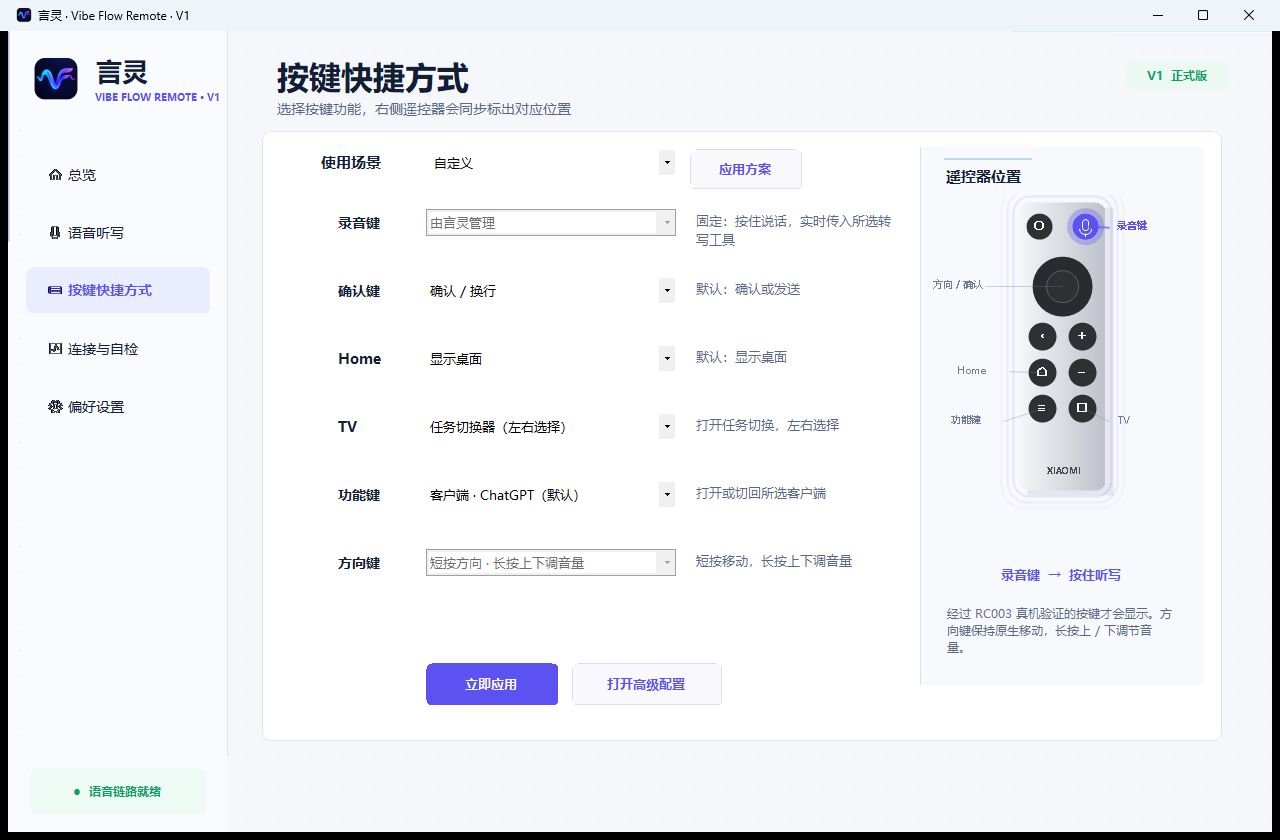
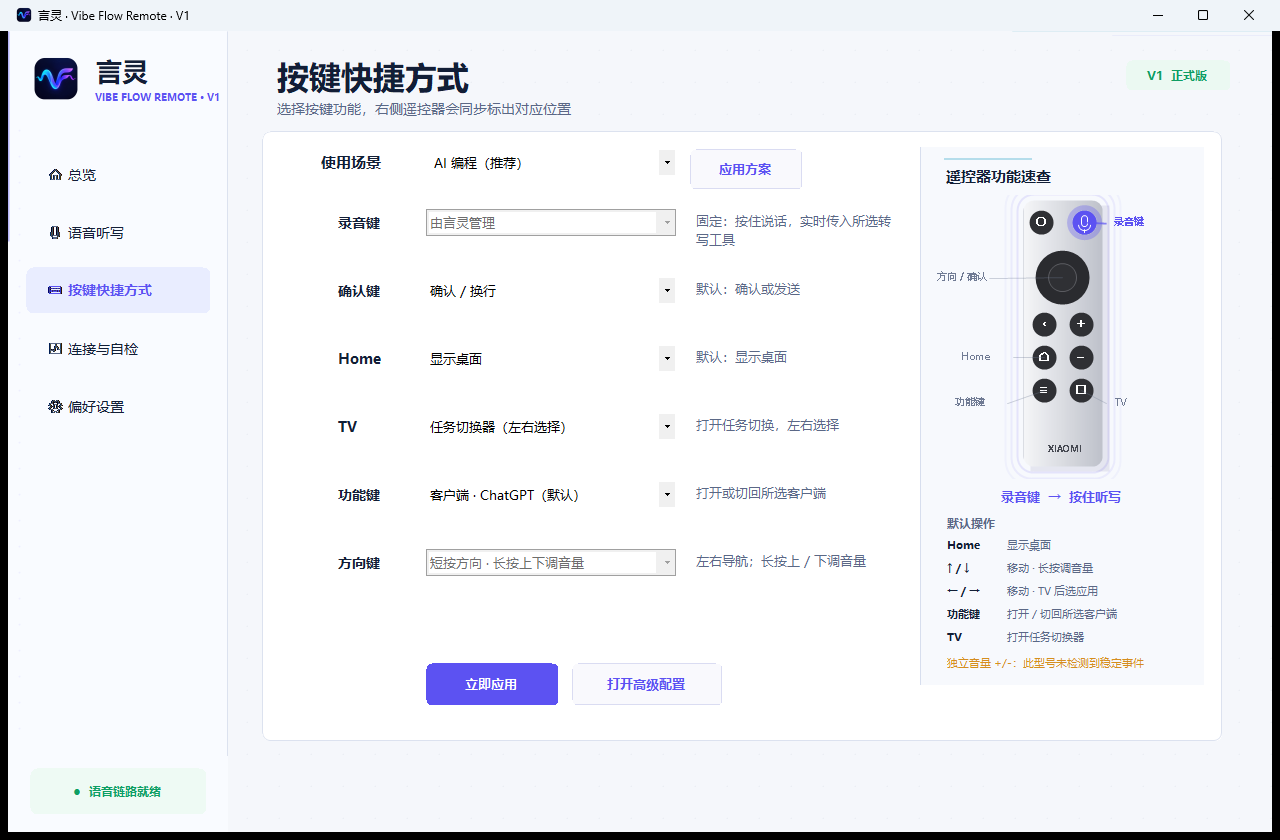
Release Vibe Flow Remote 1.0.1

diff --git a/scripts/validate.js b/scripts/validate.js
@@ -28,6 +28,7 @@ const requiredFiles = [
   "installer/languages/ChineseSimplified.isl",
   "docs/USER_GUIDE_ZH.md",
   "docs/RELEASE_NOTES_V1_ZH.md",
+  "docs/RELEASE_NOTES_V1.0.1_ZH.md",
   "docs/ARCHITECTURE.md",
   "docs/images/00-first-run.png",
   "docs/images/01-overview.png",
@@ -35,6 +36,7 @@ const requiredFiles = [
   "docs/images/03-shortcuts.png",
   "docs/images/04-diagnostics.png",
   "docs/images/05-settings.png",
+  "docs/images/06-transcription-tools.png",
   ".github/ISSUE_TEMPLATE/bug_report.yml",
 ];
 
@@ -59,7 +61,7 @@ const packageJson = JSON.parse(read("package.json"));
 const readme = read("README.md");
 const guide = read("docs/USER_GUIDE_ZH.md");
 const installer = read("installer/VibeFlow.iss");
-const releaseNotes = read("docs/RELEASE_NOTES_V1_ZH.md");
+const releaseNotes = read("docs/RELEASE_NOTES_V1.0.1_ZH.md");
 
 for (const file of requiredFiles.filter((item) => item.startsWith("docs/images/") && item.endsWith(".png"))) {
   const png = fs.readFileSync(path.join(root, file));
@@ -69,8 +71,8 @@ for (const file of requiredFiles.filter((item) => item.startsWith("docs/images/"
 }
 
 assert(app.includes('DisplayProductName = "言灵 · Vibe Flow Remote"') && app.includes("Text = DisplayProductName"), "Vibe Flow Remote window title is missing");
-assert(app.includes('ProductRelease = "1.0.0"') && packageJson.version === "1.0.0", "Application and package versions are not aligned");
-assert(app.includes('AssemblyFileVersion("1.0.0.0")') && app.includes('AssemblyInformationalVersion("1.0.0")'), "Windows executable version metadata is missing");
+assert(app.includes('ProductRelease = "1.0.1"') && packageJson.version === "1.0.1", "Application and package versions are not aligned");
+assert(app.includes('AssemblyFileVersion("1.0.1.0")') && app.includes('AssemblyInformationalVersion("1.0.1")'), "Windows executable version metadata is missing");
 assert(app.includes('brandLogoPath = Path.Combine(root, "vibe-flow-logo.png")'), "Brand logo is not wired into the app");
 assert(app.includes("ShowSetupWizard"), "First-run setup is missing");
 assert(app.includes("VibeMicExitForUpdate") && app.includes("ExistingInstanceUsesDifferentPath"), "Cross-directory update handoff is missing");
@@ -92,6 +94,7 @@ assert(app.includes("RotateLogFile") && app.includes("4 * 1024 * 1024"), "Runtim
 assert(app.includes("autoRouteVirtualMicrophone") && app.includes("听写时自动使用遥控器麦克风"), "Automatic virtual microphone routing must be configurable");
 assert(app.includes("audioProcessingMode") && app.includes("清晰增强（推荐）") && app.includes("原始直通"), "Audio processing modes must be configurable and understandable");
 assert(app.includes("Typeless") && app.includes("Voquill（开源）") && app.includes("Windows 语音输入"), "Transcription provider choices are incomplete");
+assert(app.includes("遥控器功能速查") && app.includes("独立音量 +/-：此型号未检测到稳定事件"), "Hardware-validated remote quick reference is missing");
 assert(!app.includes("功能组合键已按下"), "Unsupported Function leader UI remains");
 
 assert(capture.includes("BluetoothLEDevice"), "Capture must use Windows BLE APIs");
@@ -177,16 +180,17 @@ assert(release.includes('Copy-Item (Join-Path $root "NAudio.Core.dll") $packageD
 assert(!release.includes('(Join-Path $packageDir "vibe-mic-config.json")'), "Release must not overwrite an existing user configuration during upgrade");
 assert(release.includes('"LICENSE"') && release.includes('"THIRD_PARTY_NOTICES.md"'), "Release must include license notices");
 assert(release.includes('"VibeFlow-Setup.exe"') && release.includes('"SHA256SUMS.txt"') && release.includes("ISCC.exe"), "Formal release must build an installer and checksum manifest");
-assert(release.includes('docs\\USER_GUIDE_ZH.md') && release.includes('docs\\RELEASE_NOTES_V1_ZH.md') && release.includes('docs\\images\\*.png'), "Release must include the offline tutorial, release notes, and screenshots");
-assert(installer.includes('#define MyAppVersion "1.0.0"') && installer.includes("PrivilegesRequired=lowest"), "Installer version or per-user privilege policy is invalid");
+assert(release.includes('docs\\USER_GUIDE_ZH.md') && release.includes('docs\\RELEASE_NOTES*.md') && release.includes('docs\\images\\*.png'), "Release must include the offline tutorial, release notes, and screenshots");
+assert(installer.includes('#define MyAppVersion "1.0.1"') && installer.includes("PrivilegesRequired=lowest"), "Installer version or per-user privilege policy is invalid");
 assert(installer.includes("VibeMicExitForUpdate") && installer.includes("vibe-mic-config.json") && installer.includes("[UninstallDelete]"), "Installer update or uninstall behavior is incomplete");
 assert(readme.includes("docs/USER_GUIDE_ZH.md") && readme.includes("docs/images/01-overview.png"), "GitHub README must link the tutorial and screenshot");
-assert(readme.includes("一键自检与修复") && readme.includes("1.0.0"), "GitHub README does not describe the current self-check release");
+assert(readme.includes("一键自检与修复") && readme.includes("1.0.1"), "GitHub README does not describe the current self-check release");
 assert(guide.includes("CABLE Input") && guide.includes("CABLE Output"), "Tutorial must explain the VB-CABLE route");
 assert(guide.includes("Typeless") && guide.includes("Voquill") && guide.includes("Windows 语音输入"), "Tutorial must explain supported transcription clients");
 assert(guide.includes("连接与自检") && guide.includes("七个检查项"), "Tutorial must explain actionable self-checks");
 assert(guide.includes("为什么没有组合键"), "Tutorial must explain the verified-control limitation");
 assert(guide.includes("VibeFlow-Setup.exe") && guide.includes("两分钟验收") && guide.includes("教程截图复用"), "Tutorial does not cover installation, acceptance, and reusable screenshots");
+assert(guide.includes("images/06-transcription-tools.png") && guide.includes("现象 | 先检查 | 处理方法"), "Tutorial lacks provider visuals or symptom-based troubleshooting");
 assert(releaseNotes.includes("VibeFlow-Setup.exe") && releaseNotes.includes("发布验证") && releaseNotes.includes("已知边界"), "V1 GitHub release notes are incomplete");
 
 console.log("Vibe Flow validation passed.");

diff --git a/scripts/VibeMic.cs b/scripts/VibeMic.cs
@@ -16,14 +16,14 @@ using Microsoft.Win32;
 [assembly: System.Reflection.AssemblyTitle("Vibe Flow Remote")]
 [assembly: System.Reflection.AssemblyProduct("言灵 · Vibe Flow Remote")]
 [assembly: System.Reflection.AssemblyCompany("Vibe Flow Contributors")]
-[assembly: System.Reflection.AssemblyVersion("1.0.0.0")]
-[assembly: System.Reflection.AssemblyFileVersion("1.0.0.0")]
-[assembly: System.Reflection.AssemblyInformationalVersion("1.0.0")]
+[assembly: System.Reflection.AssemblyVersion("1.0.1.0")]
+[assembly: System.Reflection.AssemblyFileVersion("1.0.1.0")]
+[assembly: System.Reflection.AssemblyInformationalVersion("1.0.1")]
 
 internal sealed class VibeMicForm : Form
 {
     private const string DisplayProductName = "言灵 · Vibe Flow Remote";
-    private const string ProductRelease = "1.0.0";
+    private const string ProductRelease = "1.0.1";
     private const int ConfigSchemaVersion = 15;
     private const int CurrentOnboardingVersion = 3;
     private const int StableVoiceProfileVersion = 11;
@@ -782,30 +782,53 @@ internal sealed class VibeMicForm : Form
             using (var divider = new Pen(Color.FromArgb(215, 222, 238))) e.Graphics.DrawLine(divider, 0, 0, 0, preview.Height);
             using (var accent = new Pen(Color.FromArgb(70, cyan), 2f)) e.Graphics.DrawLine(accent, 24, 12, 112, 12);
         };
-        var previewTitle = NewLabel("遥控器位置", 11f, FontStyle.Bold, ink);
+        var previewTitle = NewLabel("遥控器功能速查", 11f, FontStyle.Bold, ink);
         previewTitle.Location = new Point(22, 20);
-        previewTitle.Size = new Size(180, 28);
+        previewTitle.Size = new Size(220, 28);
         var previewRemote = new RemoteVisual();
-        previewRemote.Location = new Point(8, 48);
-        previewRemote.Size = new Size(268, 350);
+        previewRemote.Location = new Point(8, 46);
+        previewRemote.Size = new Size(268, 286);
         previewRemote.IsActive = true;
         previewRemote.ShowCallouts = true;
         previewRemote.AccentColor = violet;
         previewRemote.HighlightedControl = "voice";
         var mappingSelection = NewLabel("录音键  →  按住听写", 9.2f, FontStyle.Bold, violet);
-        mappingSelection.Location = new Point(22, 404);
-        mappingSelection.Size = new Size(240, 46);
+        mappingSelection.Location = new Point(22, 334);
+        mappingSelection.Size = new Size(240, 30);
         mappingSelection.TextAlign = ContentAlignment.MiddleCenter;
-        var previewHelp = NewLabel("经过 RC003 真机验证的按键才会显示。方向键保持原生移动，长按上 / 下调节音量。", 8.35f, FontStyle.Regular, muted);
-        previewHelp.Location = new Point(24, 458);
-        previewHelp.Size = new Size(236, 62);
+        var quickTitle = NewLabel("默认操作", 8.5f, FontStyle.Bold, muted);
+        quickTitle.Location = new Point(24, 368);
+        quickTitle.Size = new Size(220, 22);
+        string[,] quickRows = {
+            { "Home", "显示桌面" },
+            { "↑ / ↓", "移动 · 长按调音量" },
+            { "← / →", "移动 · TV 后选应用" },
+            { "功能键", "打开 / 切回所选客户端" },
+            { "TV", "打开任务切换器" }
+        };
+        for (int i = 0; i < quickRows.GetLength(0); i++)
+        {
+            int y = 390 + i * 23;
+            var key = NewLabel(quickRows[i, 0], 8.1f, FontStyle.Bold, ink);
+            key.Location = new Point(24, y);
+            key.Size = new Size(58, 22);
+            var action = NewLabel(quickRows[i, 1], 8.1f, FontStyle.Regular, muted);
+            action.Location = new Point(84, y);
+            action.Size = new Size(176, 22);
+            preview.Controls.Add(key);
+            preview.Controls.Add(action);
+        }
+        var previewHelp = NewLabel("独立音量 +/-：此型号未检测到稳定事件", 7.7f, FontStyle.Regular, amber);
+        previewHelp.Location = new Point(24, 508);
+        previewHelp.Size = new Size(236, 22);
         preview.Controls.Add(previewTitle);
         preview.Controls.Add(previewRemote);
         preview.Controls.Add(mappingSelection);
+        preview.Controls.Add(quickTitle);
         preview.Controls.Add(previewHelp);
         card.Controls.Add(preview);
 
-        string[,] rows = { { "录音键", "managed", "固定：按住说话，实时传入所选转写工具" }, { "确认键", "enter", "默认：确认或发送" }, { "Home", "win+d", "默认：显示桌面" }, { "TV", "task-switcher", "打开任务切换，左右选择" }, { "功能键", "launch-client:chatgpt", "打开或切回所选客户端" }, { "方向键", "direction-volume-fallback", "短按移动，长按上下调音量" } };
+        string[,] rows = { { "录音键", "managed", "固定：按住说话，实时传入所选转写工具" }, { "确认键", "enter", "默认：确认或发送" }, { "Home", "win+d", "默认：显示桌面" }, { "TV", "task-switcher", "打开任务切换，左右选择" }, { "功能键", "launch-client:chatgpt", "打开或切回所选客户端" }, { "方向键", "direction-volume-fallback", "左右导航；长按上 / 下调音量" } };
         for (int i = 0; i < rows.GetLength(0); i++)
         {
             int y = 78 + i * 68;

diff --git a/docs/RELEASE_NOTES_V1.0.1_ZH.md b/docs/RELEASE_NOTES_V1.0.1_ZH.md
@@ -1,0 +1,52 @@
+# 言灵 · Vibe Flow Remote 1.0.1
+
+这是 V1 正式版的教程与易用性更新。它补齐普通用户从下载到排障所需的说明和真实界面截图，不改变已经通过 RC003 真机验证的语音传输参数。
+
+![言灵 1.0.1 总览](https://raw.githubusercontent.com/richlearntodo-debug/vibe-flow/v1.0.1/docs/images/01-overview.png)
+
+## 下载哪个文件
+
+- `VibeFlow-Setup.exe`：推荐。按当前 Windows 用户安装，支持开始菜单、覆盖升级和标准卸载。
+- `Vibe-Flow-Windows-x64.zip`：免安装版。完整解压后运行 `VibeFlow.exe`，不要在压缩包内直接运行。
+- `SHA256SUMS.txt`：两个发布文件的 SHA-256 校验值。
+
+安装包尚未进行商业代码签名。首次运行出现 Windows 来源提示时，请确认下载地址属于 `richlearntodo-debug/vibe-flow`，并核对 SHA-256。
+
+## 这次更新
+
+- 将中文教程重组为普通用户可以逐项完成的五步配置流程。
+- 增加微信输入法、Typeless、Windows 语音输入、Voquill 和其他全局快捷键工具的独立配置说明。
+- 增加“现象、检查、处理方法”排查表，覆盖安装、VB-CABLE、蓝牙、快捷键、无文字、延迟、轻声、旧实例和按键边界。
+- 新增真实展开的转写工具截图，并在按键页加入 Home、方向键、功能键和 TV 的默认操作速查。
+- 明确 RC003 独立音量 +/- 和返回键在已验证 Windows 蓝牙链路中没有稳定事件；音量继续使用长按方向上 / 下。
+
+![支持的转写工具](https://raw.githubusercontent.com/richlearntodo-debug/vibe-flow/v1.0.1/docs/images/06-transcription-tools.png)
+
+![遥控器按键速查](https://raw.githubusercontent.com/richlearntodo-debug/vibe-flow/v1.0.1/docs/images/03-shortcuts.png)
+
+## 升级说明
+
+安装版可以直接运行新安装包覆盖升级。免安装版请解压到新目录后运行 `VibeFlow.exe`。程序会保留已有的转写工具、快捷键、开机启动、声音反馈和语音参数配置。
+
+升级后在“偏好设置”确认版本为 `1.0.1`，再到“连接与自检”运行一次检查。若诊断里的程序路径仍指向旧目录，请从系统托盘退出旧实例，再从开始菜单打开新版本。
+
+## 语音链路保持不变
+
+本次没有修改稳定档案 v11：`1.0x` 灵敏度、清晰增强、180 ms 排空、`CABLE Input` 播放端、自动默认麦克风路由、音频排空后恢复原麦克风。正常听写不保存录音，不读取转写文字，也不自行上传音频。
+
+## 发布验证
+
+- 三个 Windows 组件从源码重新编译，仓库确定性检查通过。
+- v11 语音处理自测、VB-CABLE WASAPI 时钟测试和可逆默认录音端点测试通过。
+- 安装版、免安装版、覆盖升级、配置保留、启动和退出流程完成冒烟测试。
+- 七张教程截图均来自真实应用窗口；六张主窗口截图为 1280 x 840，首次设置对话框保留原生尺寸。工具列表、按键速查、文字截断和隐私信息已人工检查。
+
+## 已知边界
+
+- 仅支持 Windows 10/11 x64 和已验证的 RC003 / MI RC 遥控器，不提供 Android APK。
+- VB-CABLE 是唯一必须额外安装的本地驱动，因第三方许可不包含在发布包中。
+- 独立返回键和音量 +/- 键没有上报稳定 Windows 事件；系统音量使用长按方向上 / 下。
+- Voquill 和其他第三方工具需要根据已安装版本核对全局快捷键；其账号、网络、识别和隐私策略由对应工具负责。
+- 安装包尚未进行商业代码签名，请只从本仓库 Releases 下载并核对 SHA-256。
+
+完整安装、配置、验收、问题排查和卸载步骤见 [中文使用教程](https://github.com/richlearntodo-debug/vibe-flow/blob/v1.0.1/docs/USER_GUIDE_ZH.md)。

diff --git a/VIBE_MIC_VERSION.md b/VIBE_MIC_VERSION.md
@@ -1,4 +1,4 @@
-# 言灵 · Vibe Flow Remote 1.0.0
+# 言灵 · Vibe Flow Remote 1.0.1
 
 Vibe Flow Remote turns the RC003 / MI RC microphone into a live Windows input source.
 The release keeps transcription ownership in the user's selected client and
@@ -27,11 +27,13 @@ Generic providers use `SendInput`, and all audio is drained before the provider 
 stopped or submitted. A newer recording preempts an older WeChat completion wait
 so buffered speech is never replayed seconds late.
 
-The 1.0 release pins the current v11 settings as a recoverable stable profile,
+The 1.0.1 release keeps the current v11 settings as a recoverable stable profile,
 adds a seven-part actionable self-check, and links every detected failure to the
 relevant setup page or Windows setting. The home remote now reacts to real button
-events, while the shortcut page includes a highlighted RC003 control map. The
-five-step guide identifies VB-CABLE as the only required extra local driver and
+events, while the shortcut page includes a highlighted RC003 control map and a
+hardware-validated quick reference. The five-step guide identifies VB-CABLE as
+the only required extra local driver, explains each supported provider, and
 requires a real end-to-end dictation before setup completes. Existing users keep
 their voice-provider and button choices; non-default audio tuning is reported as
-a warning and can be restored with one click.
+a warning and can be restored with one click. Voice transport and timing are
+unchanged from the validated 1.0.0 release.

diff --git a/README_VIBE_MIC.md b/README_VIBE_MIC.md
@@ -72,4 +72,4 @@ The ATVV protocol behavior was validated against real RC003 hardware and informe
 
 ## Status
 
-Version 1.0.0 is the first stable Windows release. Real RC003 audio capture, ADPCM decoding, VB-CABLE timing, endpoint recovery, and the WeChat and Typeless paths have been validated on physical hardware. Windows Voice Typing and generic hotkey clients use the documented system path. Voquill is implemented from its current open-source Windows default shortcut and still requires validation with the user's installed client version.
+Version 1.0.1 is the current stable Windows release. It adds beginner-focused documentation, reusable provider and remote-control screenshots, and a hardware-validated button reference without changing the v11 voice pipeline. Real RC003 audio capture, ADPCM decoding, VB-CABLE timing, endpoint recovery, and the WeChat and Typeless paths have been validated on physical hardware. Windows Voice Typing and generic hotkey clients use the documented system path. Voquill is implemented from its current open-source Windows default shortcut and still requires validation with the user's installed client version.

diff --git a/CHANGELOG.md b/CHANGELOG.md
@@ -1,5 +1,22 @@
 # Changelog
 
+## 1.0.1 - 2026-08-24
+
+- Reworked the Chinese user guide around a beginner-first five-step setup, with
+  provider-specific instructions for WeChat Input Method, Typeless, Windows
+  Voice Typing, Voquill, and configurable global-hotkey clients.
+- Added a symptom-to-repair troubleshooting matrix covering installation,
+  VB-CABLE endpoints, Bluetooth pairing, provider startup, missing text, delay,
+  quiet speech, stale versions, and unsupported RC003 physical buttons.
+- Added a real expanded provider-selector screenshot and upgraded the shortcut
+  page with a compact hardware-validated reference for Home, direction/volume,
+  Function, and TV behavior.
+- Extended deterministic screenshot capture and release validation to include
+  all tutorial images in the installer and portable ZIP.
+- Kept the validated schema 15 / voice state machine v11 pipeline unchanged:
+  `1.0x`, clear speech processing, 180 ms drain, ordered audio delivery, and
+  automatic reversible `CABLE Output` capture routing.
+
 ## 1.0.0 - 2026-08-24
 
 - Promoted the hardware-validated v11 voice pipeline and schema 15 defaults to

diff --git a/QUICK_START_ZH.md b/QUICK_START_ZH.md
@@ -10,6 +10,8 @@
 4. 核对转写工具快捷键和触发方式，点击“测试启动与结束”。
 5. 点击向导测试输入框，按住遥控器录音键说完一句话再松开。绿色成功状态和轻提示音出现后即可完成设置。
 
+转写工具的完整选择界面、微信输入法、Typeless、Windows 语音输入、Voquill 和自定义工具的逐项配置见 `docs/USER_GUIDE_ZH.md`。遇到问题不要反复重装，先使用应用内“连接与自检”的修复按钮。
+
 升级已有安装时可以覆盖程序文件，但不要删除运行目录中的 `vibe-mic-config.json`。发布包只携带 `vibe-mic-config.default.json` 模板，不会覆盖现有设置。
 
 注意：言灵输出音频到播放端点 `CABLE Input`；听写开始前会临时把 Windows 默认录音端点切换到对应的 `CABLE Output`，结束后自动恢复。关闭自动路由时，才需要在转写工具中手动选择 `CABLE Output`。
